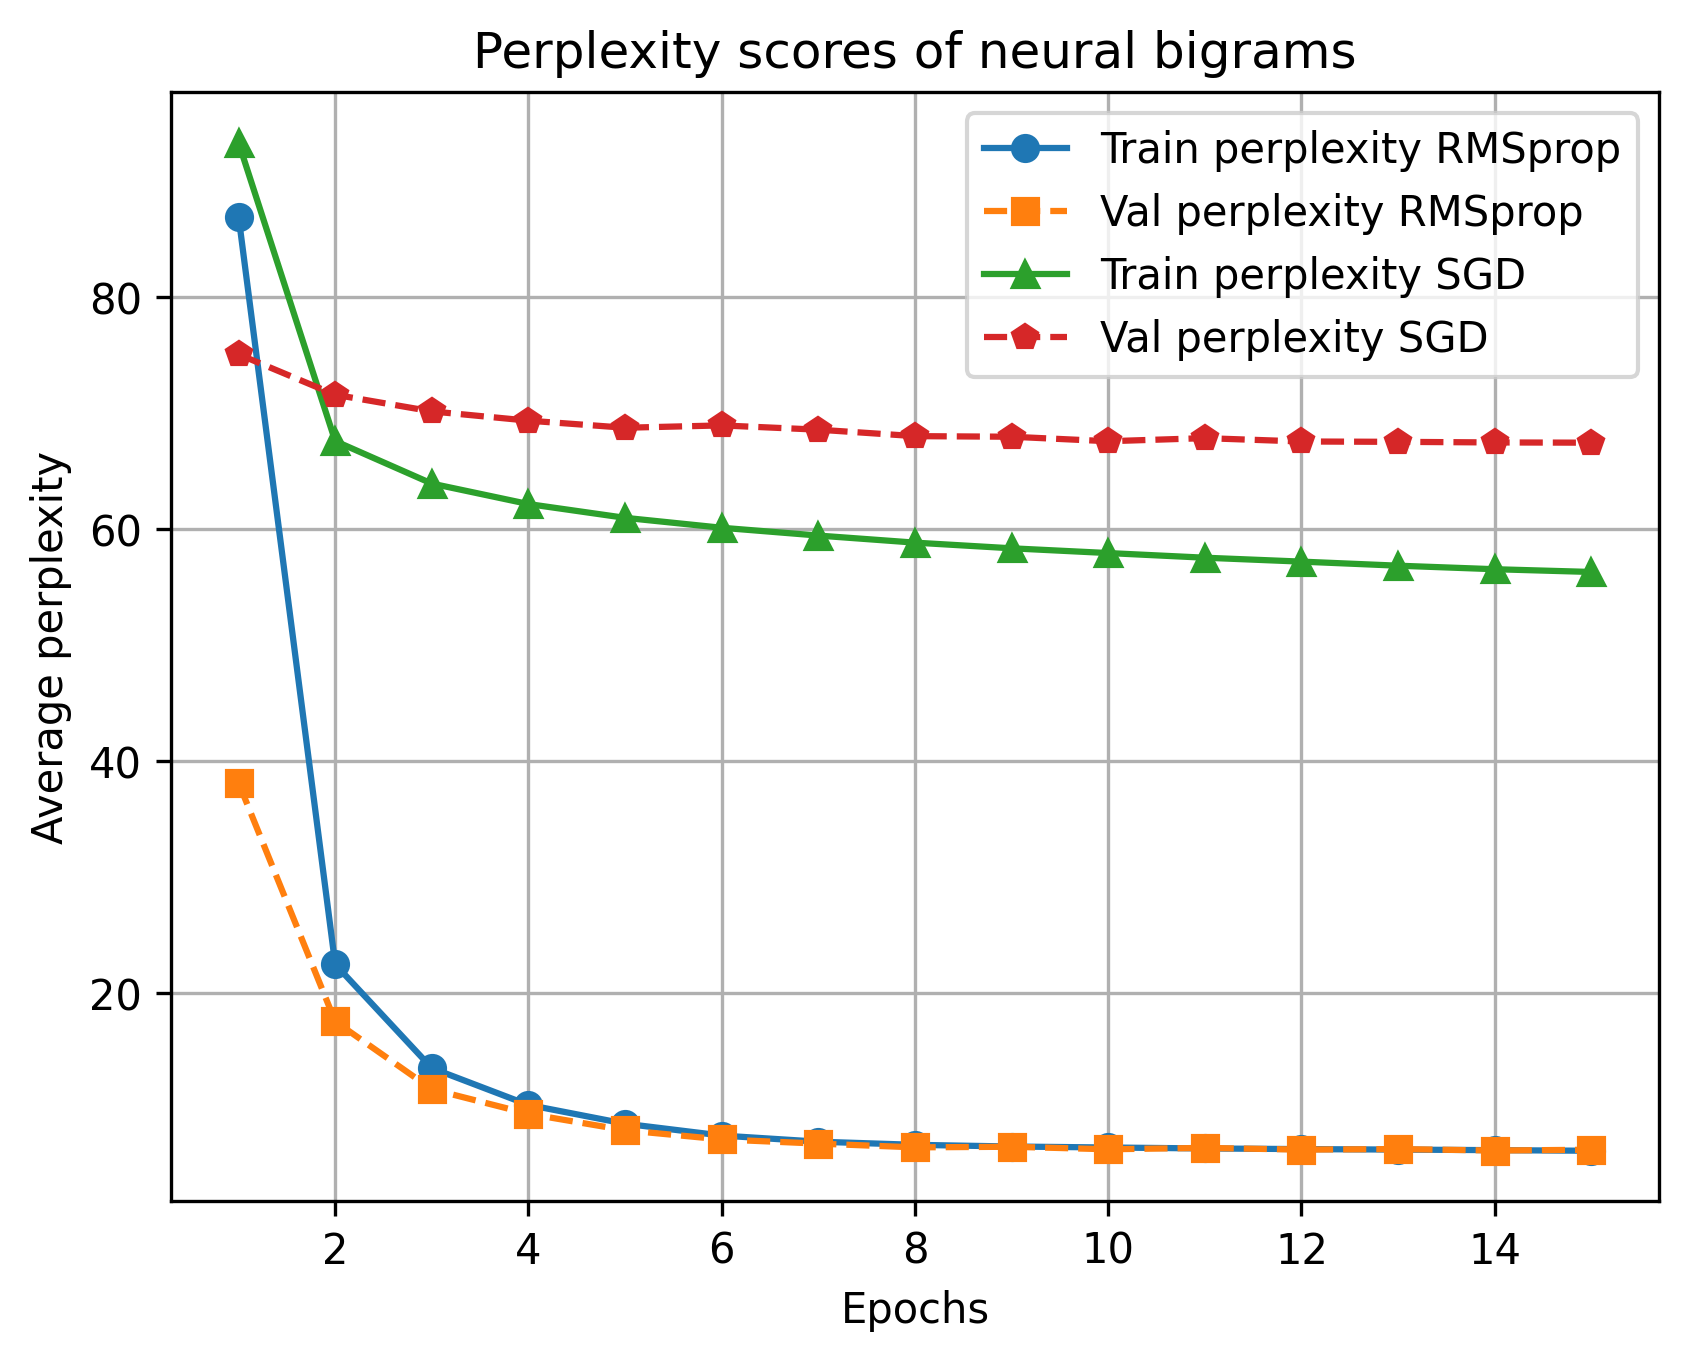
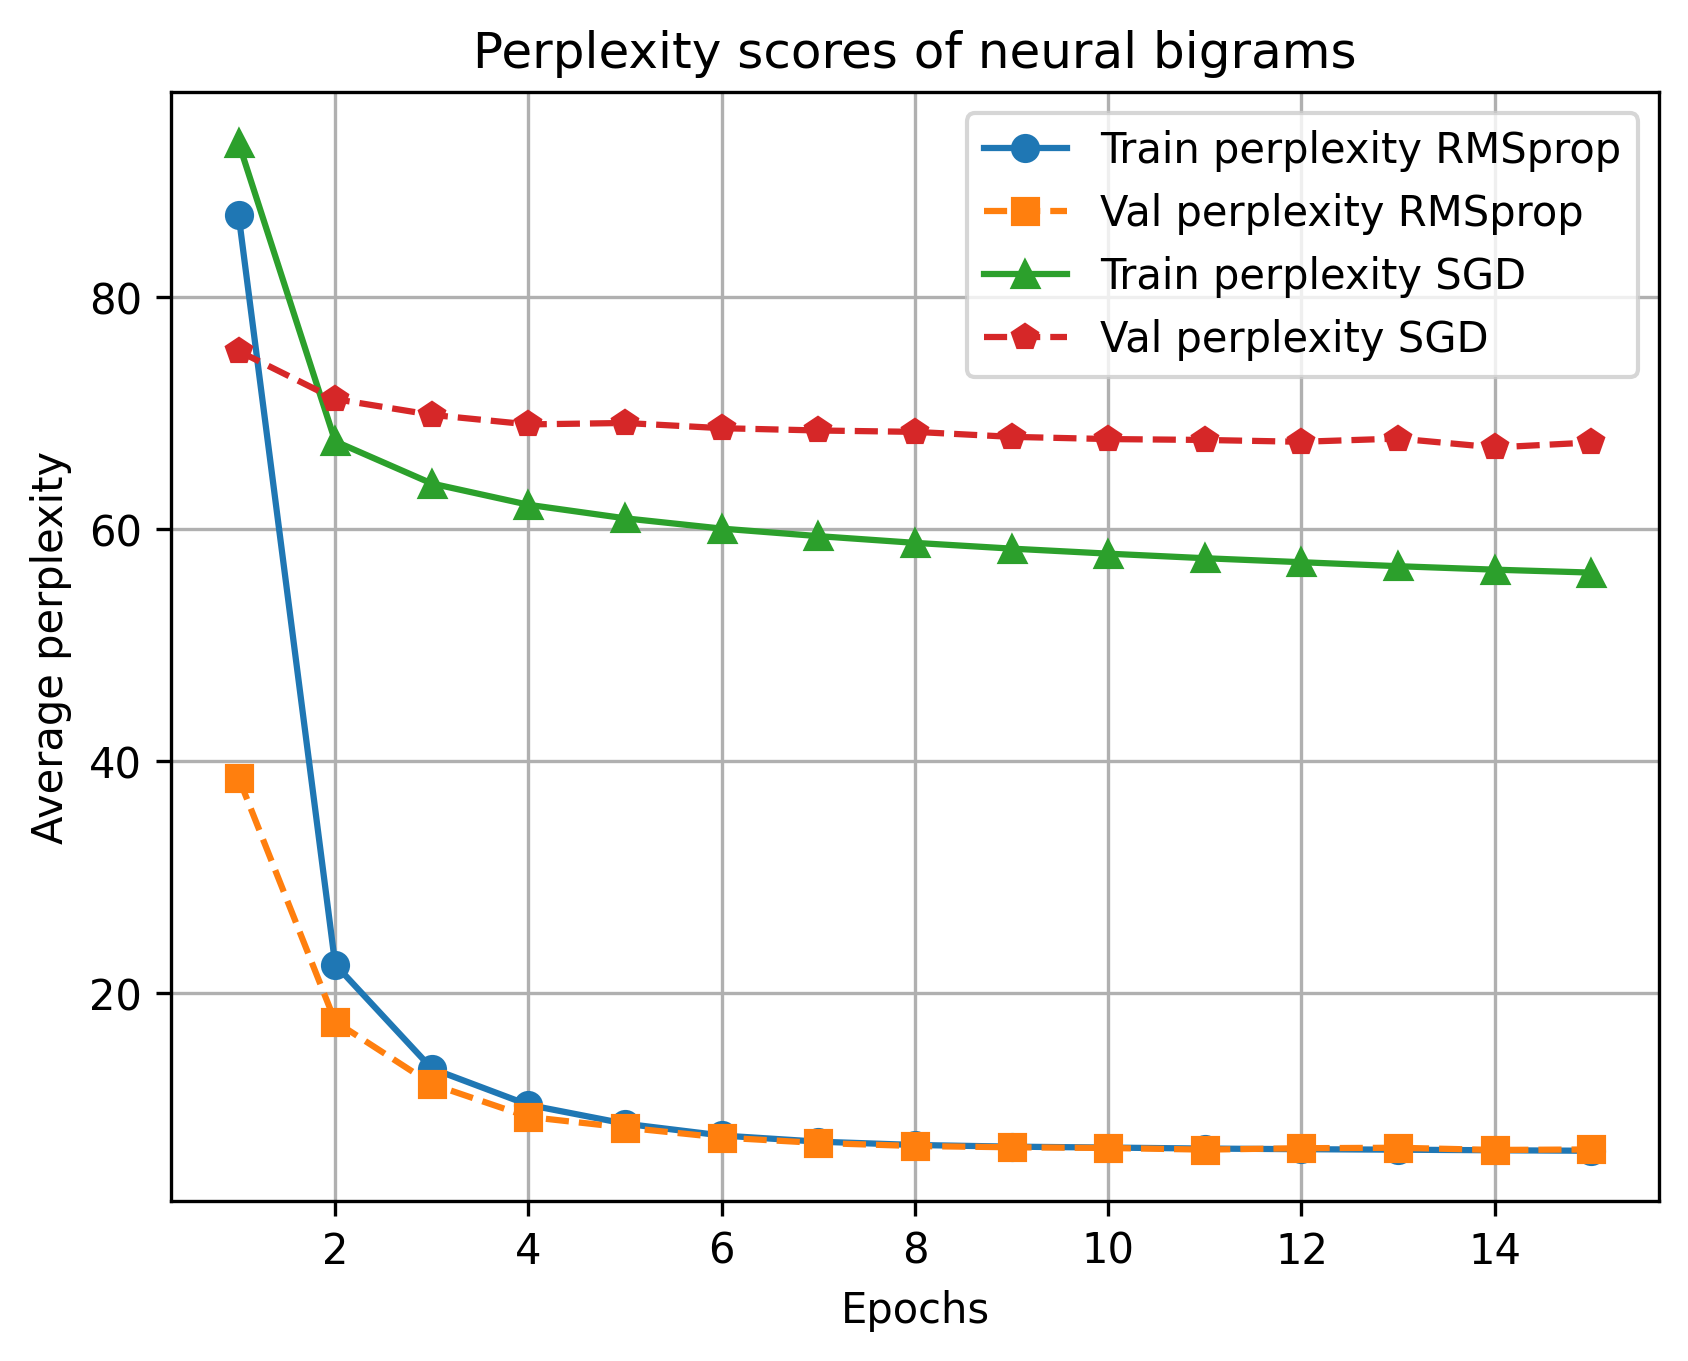
fix: k in top_k sampling reduced from 4 to 3

diff --git a/neural_n_grams.py b/neural_n_grams.py
@@ -79,7 +79,7 @@ class Neural_n_gram_model:
 
    
     
-    def generate_new_tokens(self, token_sequence: list, n_tokens: int, k_for_top_k:int = 4):
+    def generate_new_tokens(self, token_sequence: list, n_tokens: int, k_for_top_k:int = 3):
         for _ in range (n_tokens):
             last_token_index = token_sequence[-1]
           
